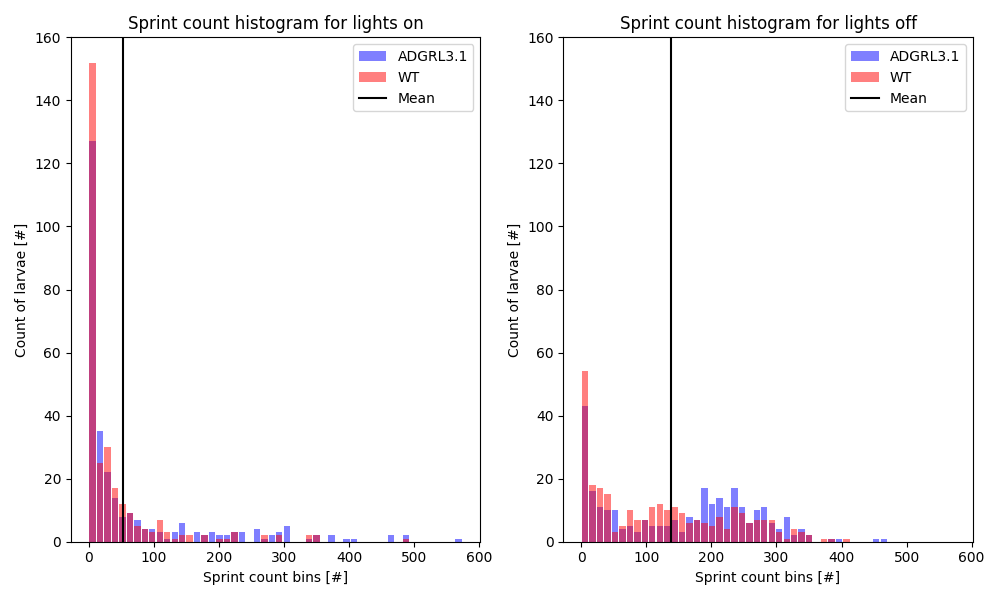
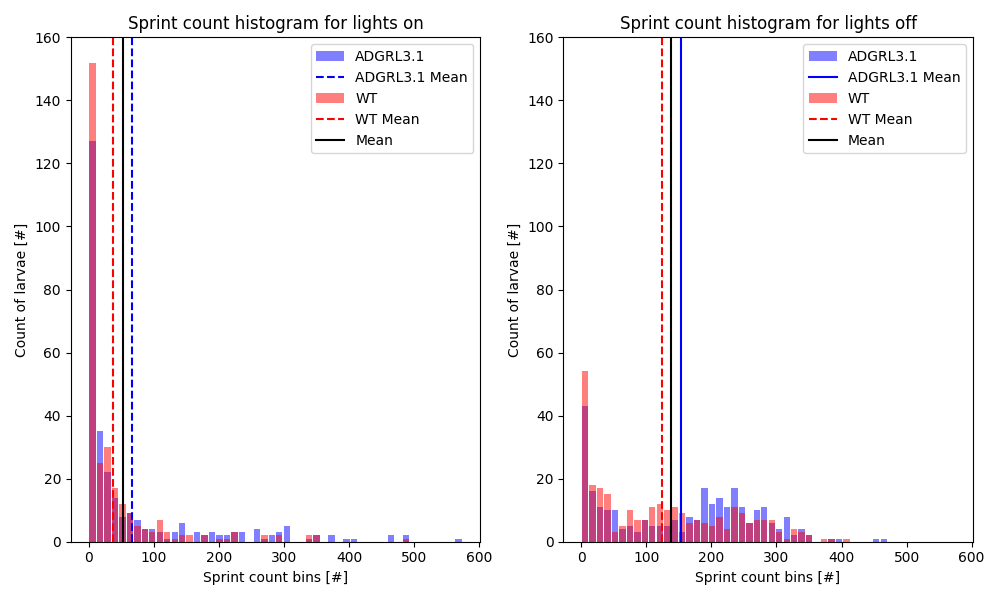
add matrix and accuracy calc

Changed region(s): [[0.651, 0.06, 0.682, 0.9], [0.31, 0.06, 0.465, 0.24], [0.806, 0.06, 0.961, 0.24]]

diff --git a/adgrl3-experiment/classification.py b/adgrl3-experiment/classification.py
@@ -33,10 +33,49 @@ tm_mutant_off = []
 tm_wildtype_on = []
 tm_wildtype_off = []
 
-comp_ids = []
-for alph in ALPH_MAP:
-    for num in range(1,13):
-        comp_ids.append(f"{alph}{num}")
+def result(actual, prediction):
+    """
+    pred   act
+    WT    WT     = TP
+    ADGRL ADGRL  = TN
+    WT    ADGRL  = FP
+    ADGRL WT     = FN
+
+    counts = [TP, TN, FP, FN]
+    """
+    res = []
+    counts = [0,0,0,0]
+
+    for act, pred in zip(actual, prediction):
+        if pred == "WT" and act == "WT":
+            res.append("TP")
+            counts[0] += 1
+        elif pred == "ADGRL" and act == "ADGRL":
+            res.append("TN")
+            counts[1] += 1
+        elif pred == "WT" and act == "ADGRL":
+            res.append("FP")
+            counts[2] += 1
+        elif pred == "ADGRL" and act == "WT":
+            res.append("FN")
+            counts[3] += 1
+
+    return res, counts
+
+def confusion_matrix(counts):
+    TP, TN, FP, FN = counts
+    print(f"  {'  ':>5} Predicted")
+    print(f"A {'  ':>5} {'WT':>5} {'ADGRL':>5}")
+    print(f"c {'WT':>5} {TP:>5} {FN:>5}")
+    print(f"t {'ADGRL':>5} {FP:>5} {TN:>5}\n")
+
+    prec = TP/(TP + FP)
+    rec =  TP/(TP + FN)
+    acc = (TP + TN)/(TP + FN + TN + FP)
+
+    return prec, rec, acc
+
+    
 
 def plot_histogram_bins(mutant_on, mutant_off, wildtype_on, wildtype_off,metric,ymax,bins,unit):
     fig = plt.figure(figsize=(10, 6))
@@ -44,10 +83,10 @@ def plot_histogram_bins(mutant_on, mutant_off, wildtype_on, wildtype_off,metric,
 
     plt.subplot(1, 2, 1)
     plt.hist(mutant_on, bins=bins, color="blue", alpha=0.5, rwidth=0.85, label="ADGRL3.1")
-    # plt.axvline(x=np.mean(mutant_on), color="blue", label="ADGRL3.1 Mean")
+    plt.axvline(x=np.mean(mutant_on), color="blue", linestyle="dashed", label="ADGRL3.1 Mean")
     plt.hist(wildtype_on, bins=bins, color="red", alpha=0.5, rwidth=0.85, label="WT")
+    plt.axvline(x=np.mean(wildtype_on), color="red", linestyle="dashed", label="WT Mean")
     plt.axvline(x=np.mean(wildtype_on + mutant_on), color="k", label="Mean")
-    # plt.axvline(x=np.mean(wildtype_on), color="red", label="WT Mean")
     plt.ylim((0,ymax))
     plt.xlabel(f"{metric} bins [{unit}]")
     plt.ylabel("Count of larvae [#]")
@@ -56,8 +95,9 @@ def plot_histogram_bins(mutant_on, mutant_off, wildtype_on, wildtype_off,metric,
 
     plt.subplot(1, 2, 2)
     plt.hist(mutant_off, bins=bins, color="blue", alpha=0.5, rwidth=0.85, label="ADGRL3.1")
-    # plt.axvline(x=np.mean(mutant_off), color="blue", label="ADGRL3.1 Mean")
+    plt.axvline(x=np.mean(mutant_off), color="blue", label="ADGRL3.1 Mean")
     plt.hist(wildtype_off, bins=bins, color="red", alpha=0.5, rwidth=0.85, label="WT")
+    plt.axvline(x=np.mean(wildtype_off), color="red", linestyle="dashed", label="WT Mean")
     plt.axvline(x=np.mean(wildtype_off + mutant_off), color="k", label="Mean")
     plt.ylim((0,ymax))
     plt.xlabel(f"{metric} bins [{unit}]")
@@ -184,9 +224,20 @@ plot_histogram_bins(sc_mutant_on,sc_mutant_off,sc_wildtype_on,sc_wildtype_off,"S
 plot_histogram_bins(sd_mutant_on,sd_mutant_off,sd_wildtype_on,sd_wildtype_off,"Avg. sprint duration",45,50,"s")
 plot_histogram_bins(tm_mutant_on,tm_mutant_off,tm_wildtype_on,tm_wildtype_off,"Time moving",250,50,"s")
 
-
-
 recording_count = 0
+
+predictions_ec_on = []
+predictions_ec_off = []
+predictions_sc_on = []
+predictions_sc_off = []
+predictions_sd_on = []
+predictions_sd_off = []
+predictions_tm_on = []
+predictions_tm_off = []
+
+actual = []
+actual_sd_on = []
+actual_sd_off = []
 
 for date_i, date in enumerate(DATES):
     for exp_i, exp in enumerate(EXPERIMENTS[date_i]):
@@ -204,8 +255,10 @@ for date_i, date in enumerate(DATES):
 
                     if (mutants_on_left == True and num < 7) or (mutants_on_left == False and num >= 7):
                         is_mutant = True
+                        actual.append("ADGRL")
                     else:
                         is_mutant = False
+                        actual.append("WT")
 
                     with open(BASE_PATH + date + f"/ex{exp}/compartments/{COMP_ID}.csv", mode="r") as file:
                         csvFile = csv.reader(file)
@@ -215,12 +268,15 @@ for date_i, date in enumerate(DATES):
                         event_count_on = len([time for time in timestamps if time < SPIKE_TIME*1000000])
                         event_count_off = len([time for time in timestamps if time >= (SPIKE_TIME+1)*1000000])
 
-                        if is_mutant:
-                            ec_mutant_on.append(event_count_on)
-                            ec_mutant_off.append(event_count_off)
+                        if event_count_on >= ec_threshold_on:
+                            predictions_ec_on.append("ADGRL")
                         else:
-                            ec_wildtype_on.append(event_count_on)
-                            ec_wildtype_off.append(event_count_off)
+                            predictions_ec_on.append("WT")
+                        if event_count_off >= ec_threshold_off:
+                            predictions_ec_off.append("ADGRL")
+                        else:
+                            predictions_ec_off.append("WT")
+
 
                     with open(BASE_PATH2 + date + f"/ex{exp}/compartments/{COMP_ID}.csv", mode="r") as file:
                         csvFile = csv.reader(file)
@@ -245,20 +301,65 @@ for date_i, date in enumerate(DATES):
                         time_moving_on = sum(durations_on)/1000000
                         time_moving_off = sum(durations_off)/1000000
 
-                        if is_mutant:
-                            sc_mutant_on.append(sprint_count_on)
-                            sc_mutant_off.append(sprint_count_off)
-                            sd_mutant_on.append(sprint_dur_on)
-                            sd_mutant_off.append(sprint_dur_off)
-                            tm_mutant_on.append(time_moving_on)
-                            tm_mutant_off.append(time_moving_off)
+
+                        if sprint_count_on >= sc_threshold_on:
+                            predictions_sc_on.append("ADGRL")
                         else:
-                            sc_wildtype_on.append(sprint_count_on)
-                            sc_wildtype_off.append(sprint_count_off)
-                            sd_wildtype_on.append(sprint_dur_on)
-                            sd_wildtype_off.append(sprint_dur_off)
-                            tm_wildtype_on.append(time_moving_on)
-                            tm_wildtype_off.append(time_moving_off)
+                            predictions_sc_on.append("WT")
+                        if sprint_count_off >= sc_threshold_off:
+                            predictions_sc_off.append("ADGRL")
+                        else:
+                            predictions_sc_off.append("WT")
+                        if time_moving_on >= tm_threshold_on:
+                            predictions_tm_on.append("ADGRL")
+                        else:
+                            predictions_tm_on.append("WT")
+                        if time_moving_off >= tm_threshold_off:
+                            predictions_tm_off.append("ADGRL")
+                        else:
+                            predictions_tm_off.append("WT")
+
+                        if not np.isnan(sprint_dur_on) and sprint_dur_on != 0:
+                            if is_mutant:
+                                actual_sd_on.append("ADGRL")
+                            else:
+                                actual_sd_on.append("WT")
+
+                            # make prediction
+                            if sprint_dur_on >= sd_threshold_on:
+                                predictions_sd_on.append("ADGRL")
+                            else:
+                                predictions_sd_on.append("WT")
+
+                        if not np.isnan(sprint_dur_off) or sprint_dur_off != 0:
+                            if is_mutant:
+                                actual_sd_off.append("ADGRL")
+                            else:
+                                actual_sd_off.append("WT")
+
+                            # make prediction
+                            if sprint_dur_off >= sd_threshold_off:
+                                predictions_sd_off.append("ADGRL")
+                            else:
+                                predictions_sd_off.append("WT")
                 
                 comp_count += 1
         recording_count += 1
+
+print(len(actual))
+print(len(predictions_ec_on))
+print(len(predictions_ec_off))
+print(len(predictions_sc_on ))
+print(len(predictions_sc_off))
+print(len(predictions_tm_on ))
+print(len(predictions_tm_off))
+print(len(actual_sd_on))
+print(len(predictions_sd_on ))
+print(len(actual_sd_off))
+print(len(predictions_sd_off))
+
+ec_on_res, counts = result(actual, predictions_ec_on)
+prec, rec, acc = confusion_matrix(counts)
+print(f"{'Precision:':>10} {prec}")
+print(f"{'Recall:':>10} {rec}")
+print(f"{'Accuracy:':>10} {acc}")
